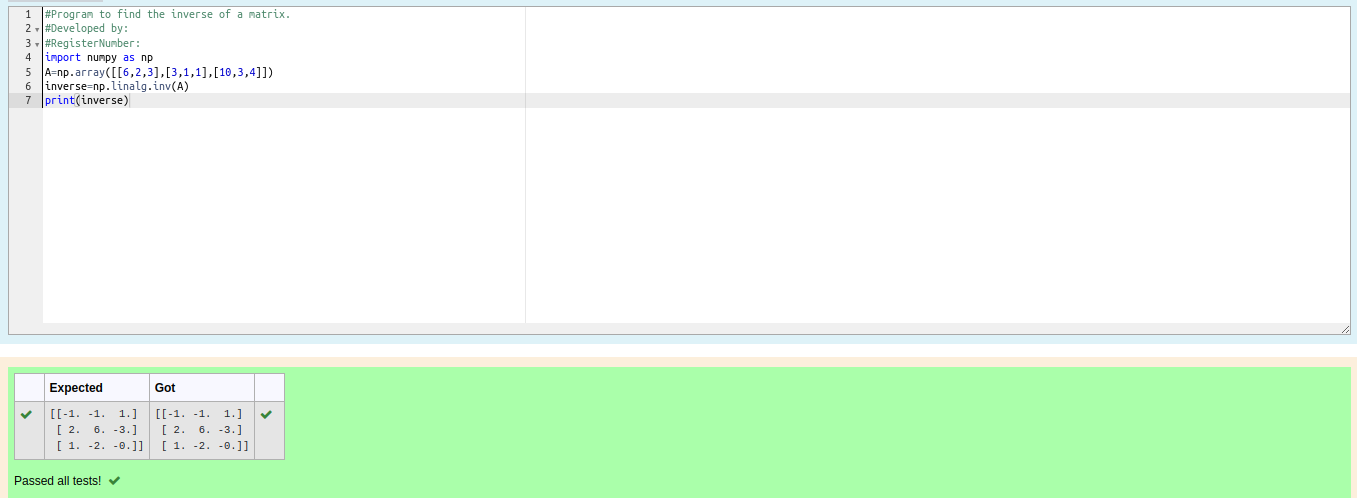
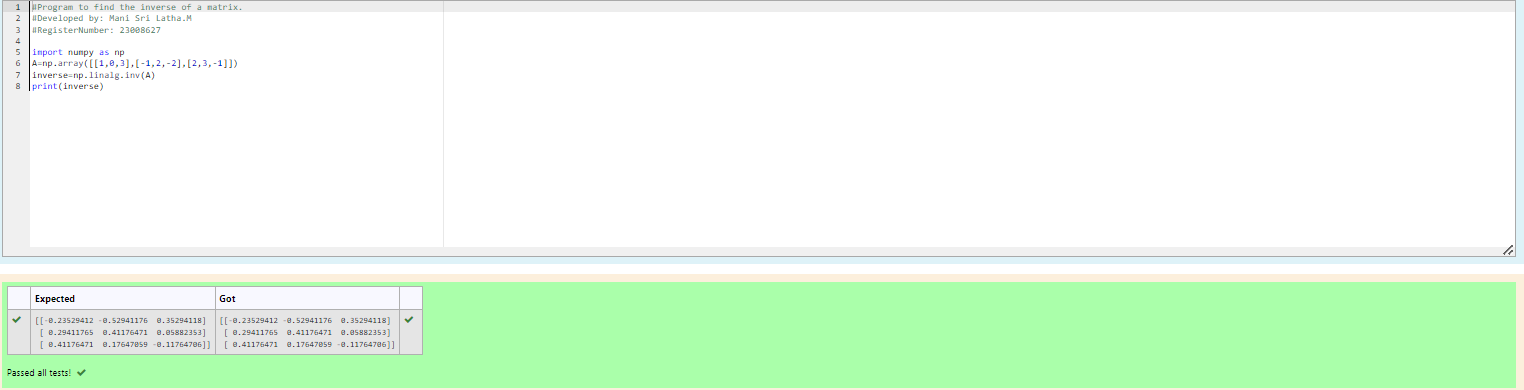
uyh

Changed region(s): [[0.0, 0.0, 1.0, 1.0]]

diff --git a/README.md b/README.md
@@ -19,7 +19,7 @@ End the program
 #Developed by: Mani Sri Latha.M
 #RegisterNumber: 23008627
 import numpy as np
-A=np.array([[6,2,3],[3,1,1],[10,3,4]])
+A=np.array([[1,0,3],[-1,2,-2],[2,3,-1]])
 inverse=np.linalg.inv(A)
 print(inverse)
 ```
